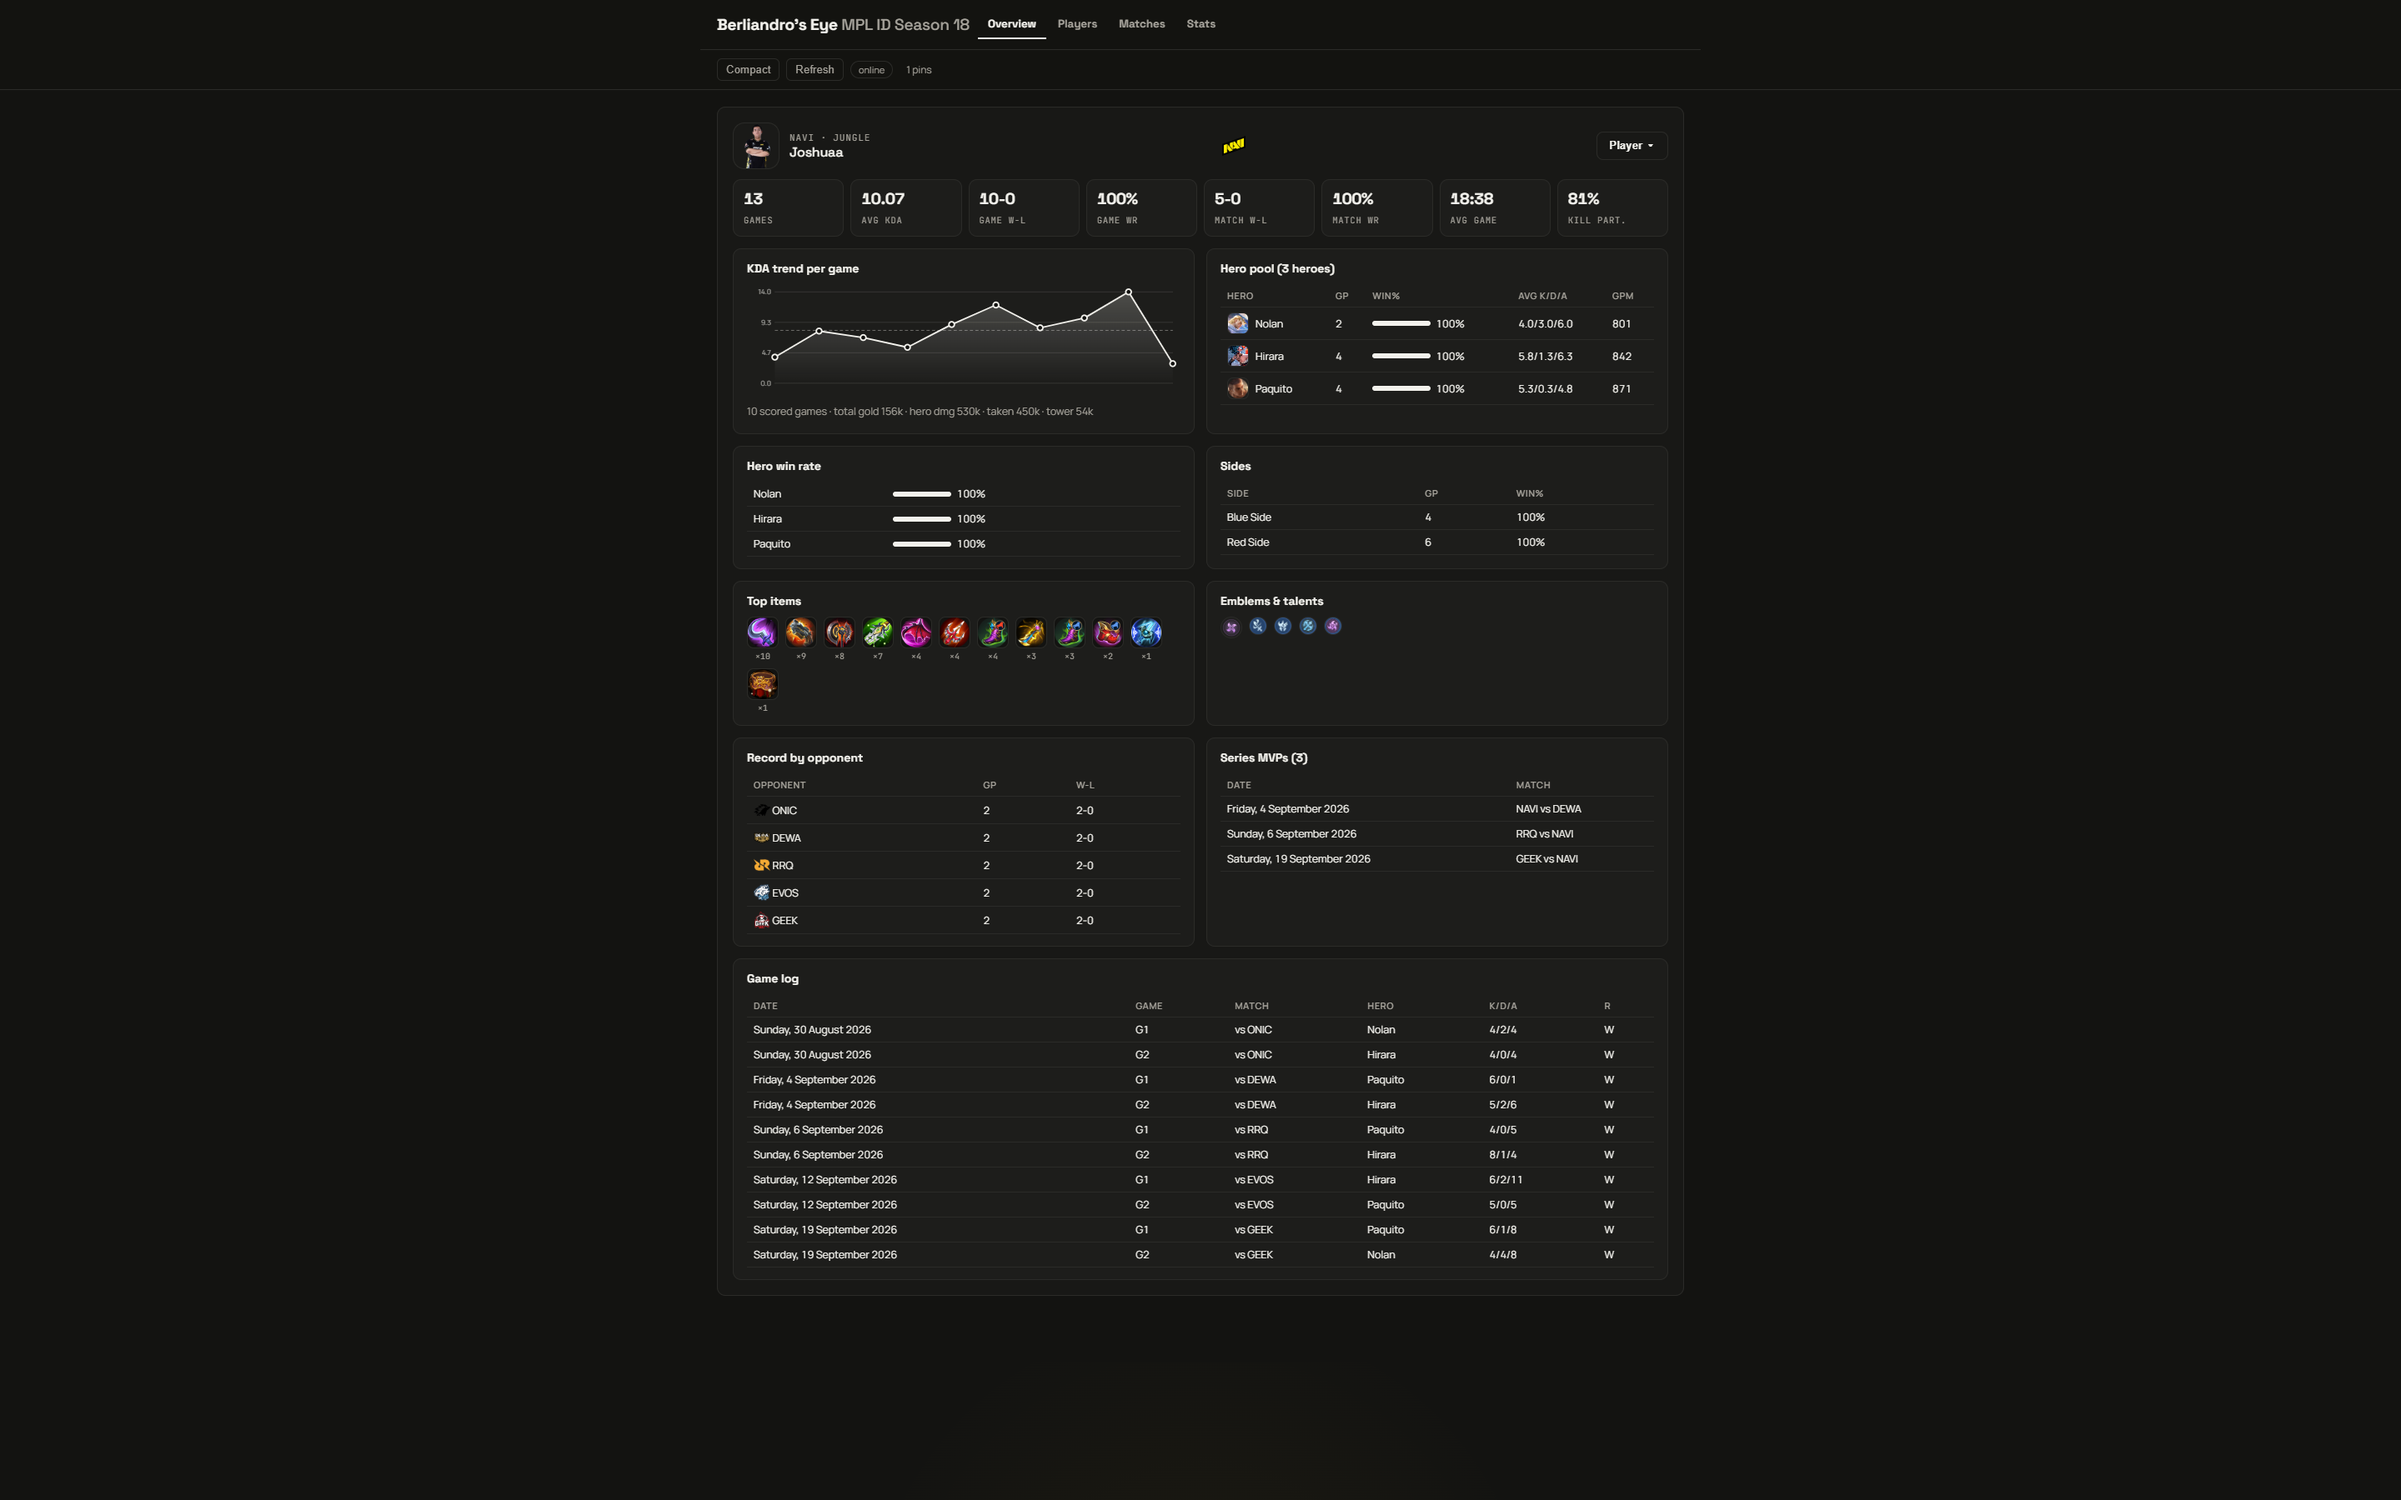
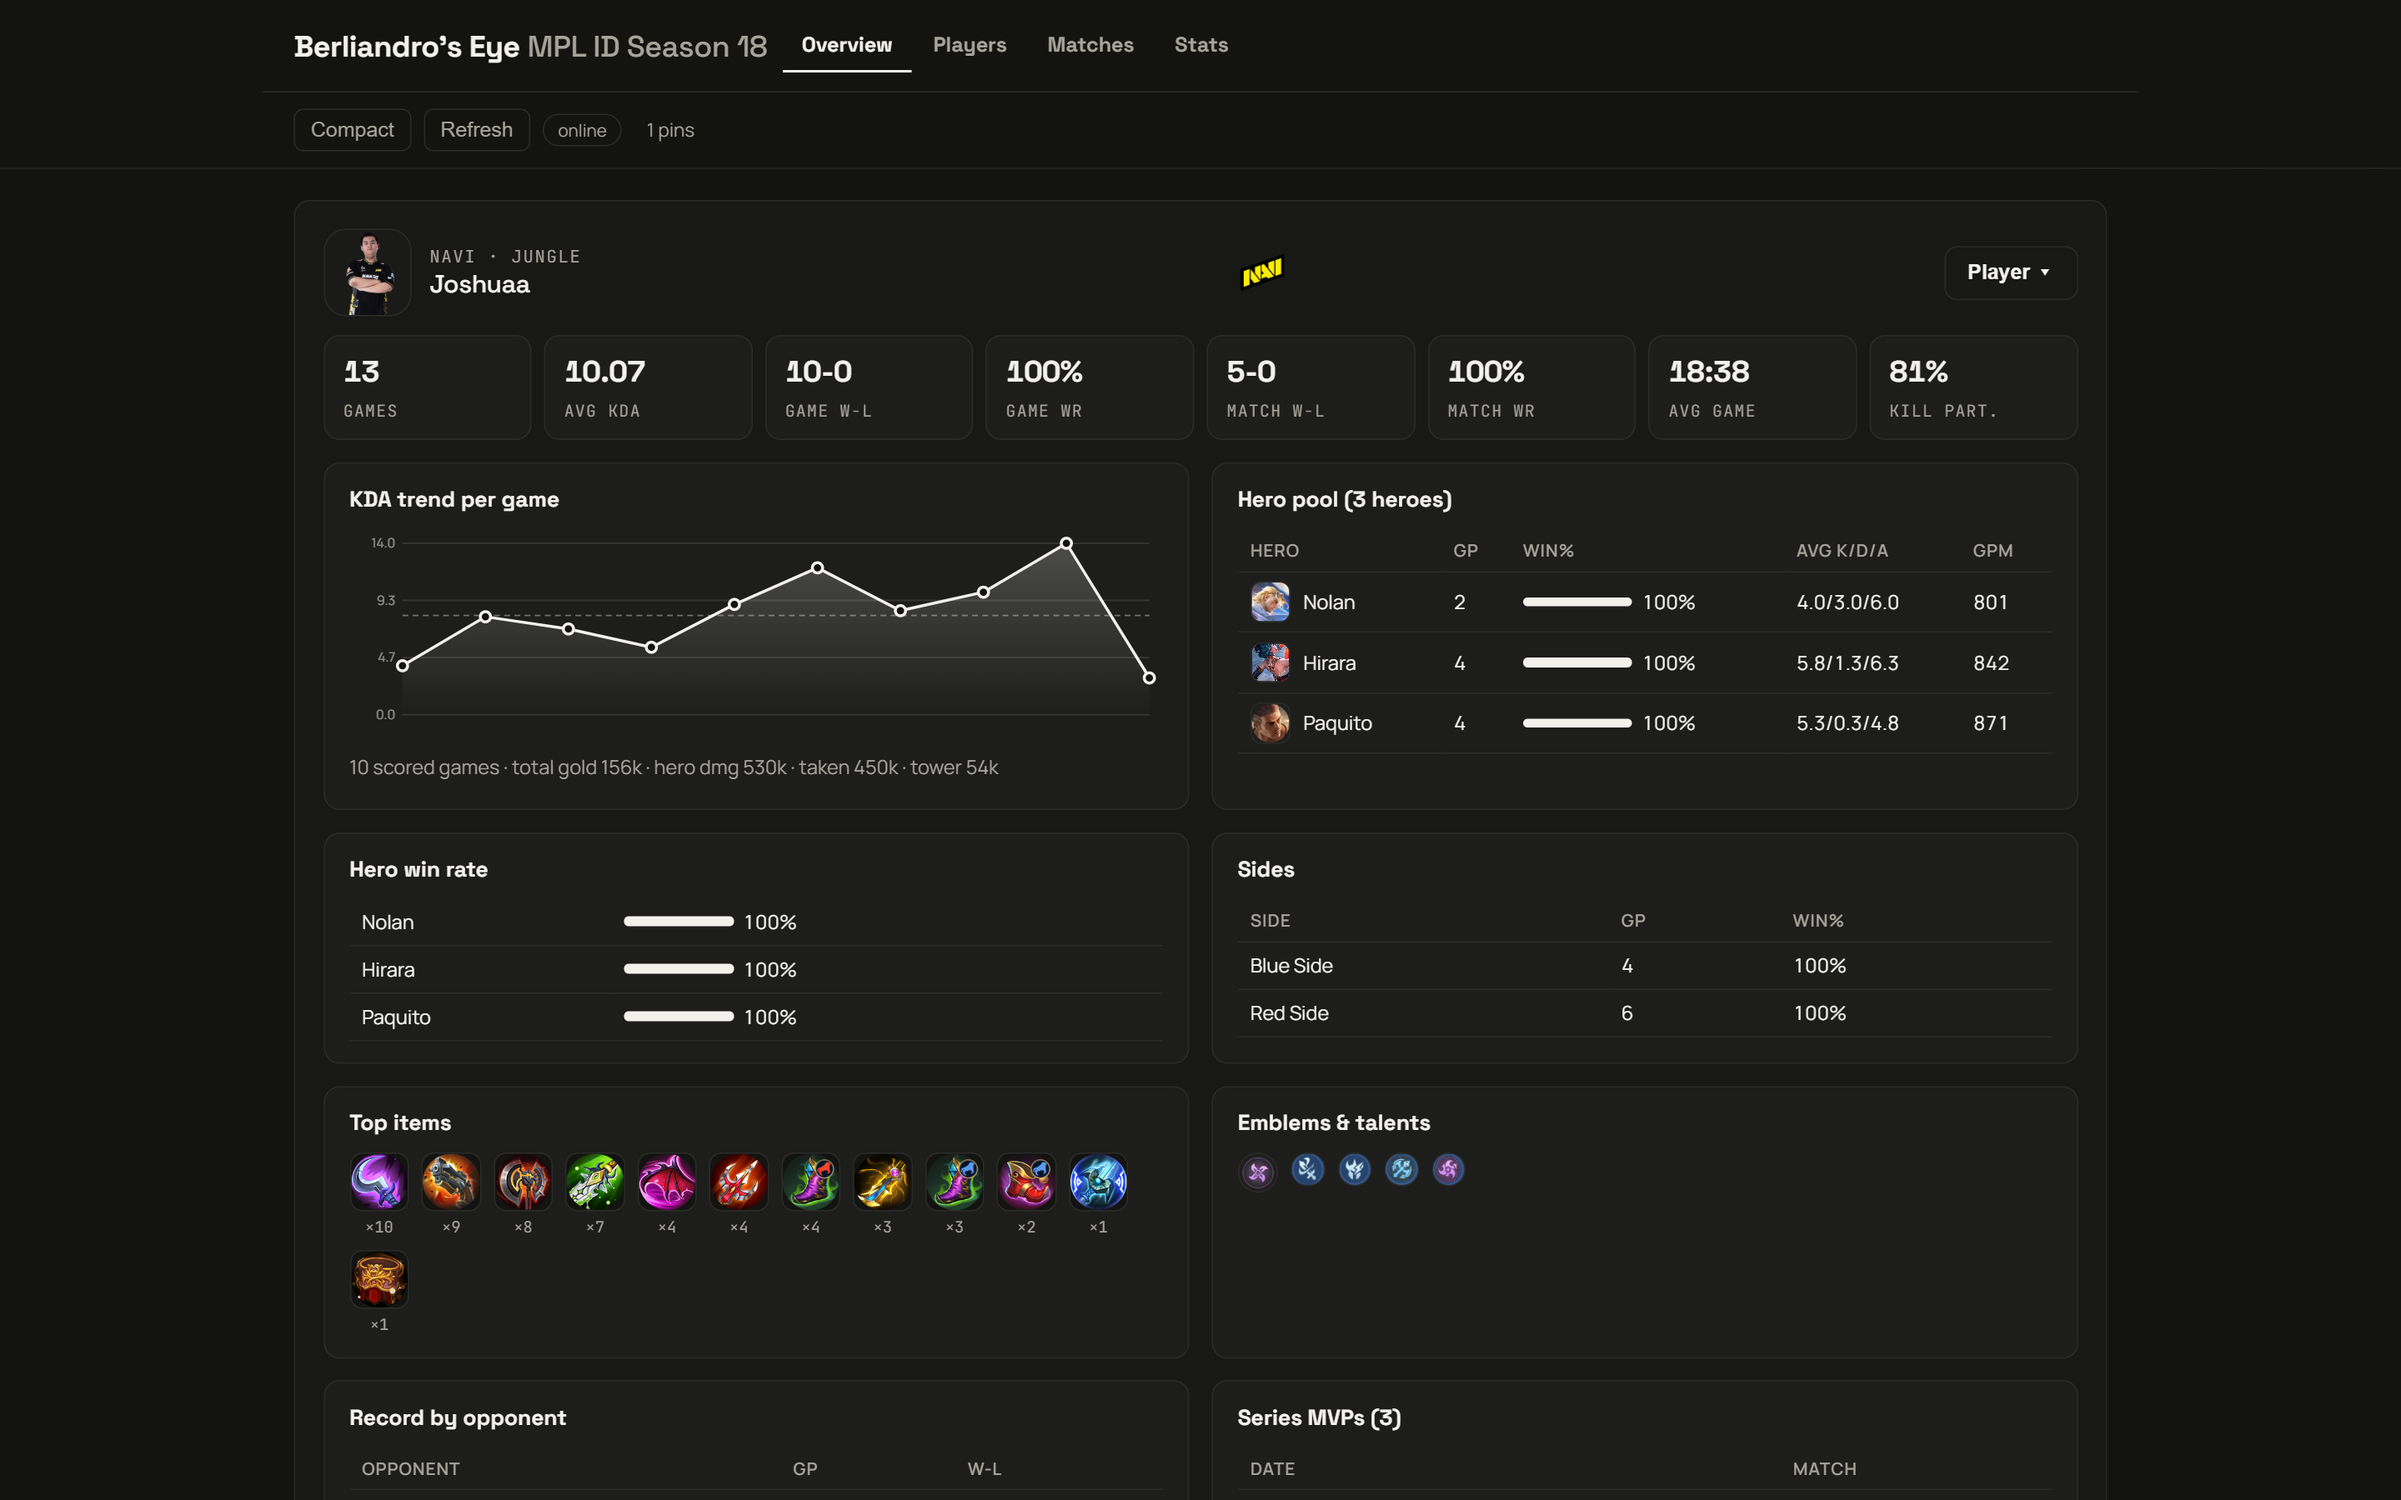
retake README screenshots zoomed (150pct system + 125pct page, 2880x1800)

diff --git a/tools/shots.py b/tools/shots.py
@@ -1,7 +1,11 @@
 """README screenshots at 2880x1800 using system Chrome (headless).
-Usage: python tools/shots.py
+Usage: python tools/shots.py [--zoom]
+  default: 2880x1800 CSS @ dsf 1 (native)
+  --zoom:  1920x1200 CSS @ dsf 1.5 (=150% system) + 125% page zoom,
+           still 2880x1800 PNG, content effectively 1.875x (zoomed look)
 Output: github/assets/*.png
 """
+import sys
 from pathlib import Path
 from playwright.sync_api import sync_playwright
 
@@ -10,6 +14,10 @@ OUT = ROOT / 'github' / 'assets'
 OUT.mkdir(parents=True, exist_ok=True)
 URL = (ROOT / 'mpl_id_s18_dark.html').as_uri()
 CHROME = r'C:\Program Files\Google\Chrome\Application\chrome.exe'
+ZOOM = '--zoom' in sys.argv
+
+VP = {'width': 1920, 'height': 1200} if ZOOM else {'width': 2880, 'height': 1800}
+DSF = 1.5 if ZOOM else 1.0
 
 SHOTS = []
 
@@ -24,9 +32,13 @@ def shot(page, name):
 with sync_playwright() as pw:
     b = pw.chromium.launch(executable_path=CHROME,
                            args=['--no-sandbox', '--force-device-scale-factor=1'])
-    pg = b.new_page(viewport={'width': 2880, 'height': 1800})
+    ctx = b.new_context(viewport=VP, device_scale_factor=DSF)
+    pg = ctx.new_page()
     pg.goto(URL, wait_until='networkidle')
     pg.wait_for_timeout(2500)
+    if ZOOM:
+        pg.evaluate('document.body.style.zoom = "125%"')
+        pg.wait_for_timeout(800)
 
     shot(pg, '01-overview.png')
 
